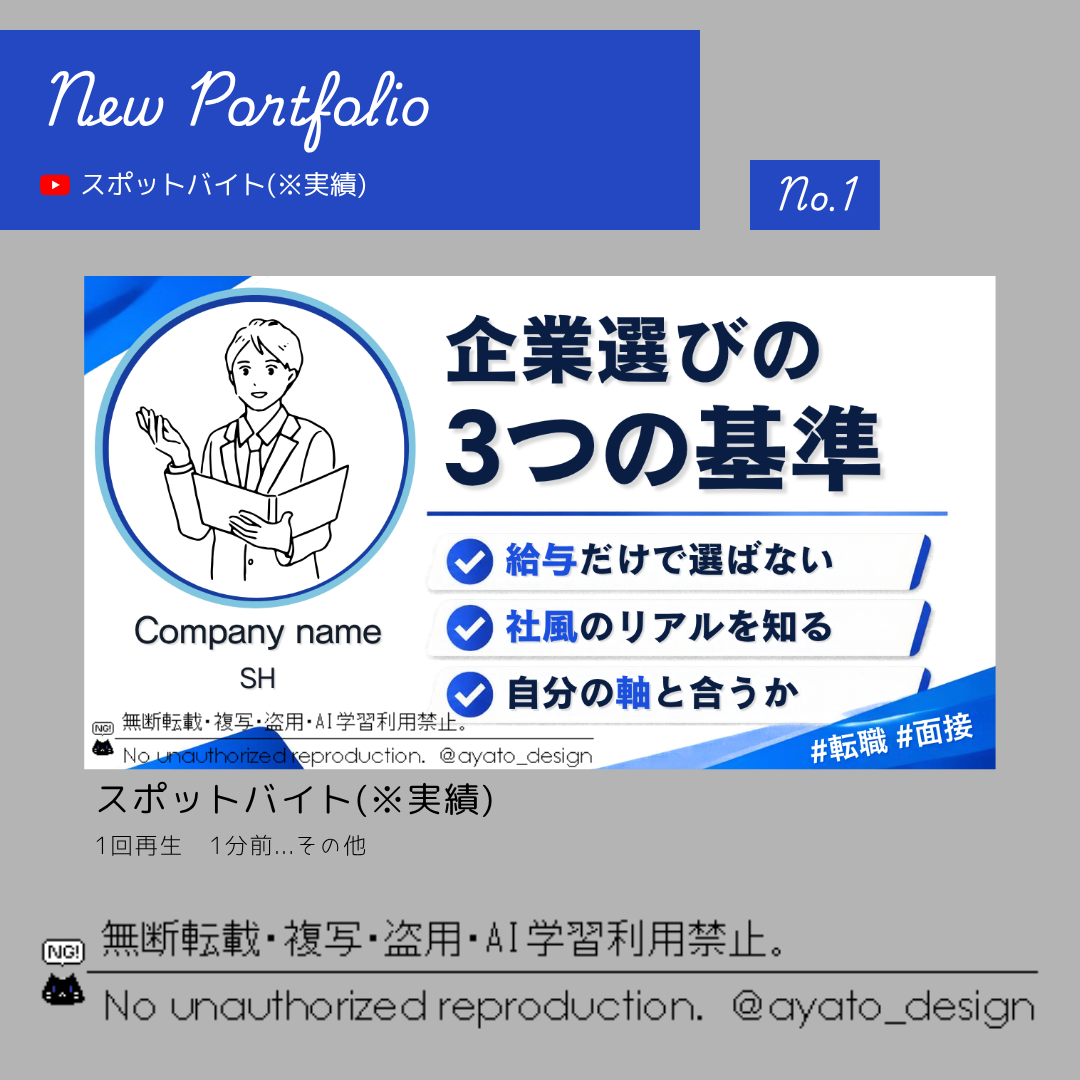
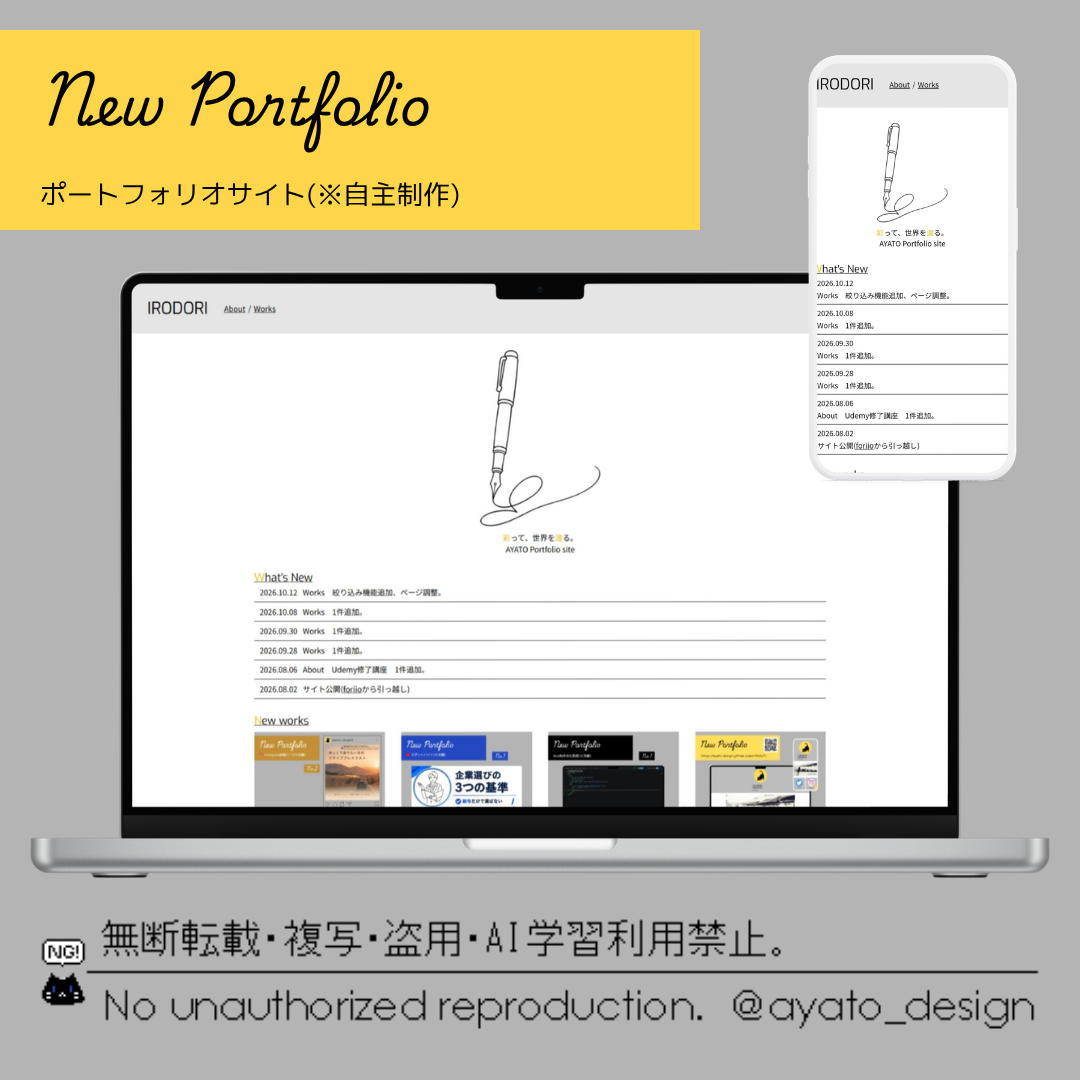
Add files via upload

diff --git a/works/15/15.html b/works/15/15.html
@@ -3,7 +3,7 @@
  <head>
       <link rel="stylesheet" href="../../material/style.css">
       <link rel="icon" href="../../material/favicon.ico">
-   <title>IRODORI:Works:YouTubeサムネイル画像</title>
+   <title>IRODORI:Works:ポートフォリオサイト</title>
    <meta charset="UTF-8">
    <meta name="viewport" content="width=device-width,initial-scale=1">
    <meta name="robots" content="noindex,nofollow,noarchive">
@@ -32,33 +32,70 @@
                 <ul>
                     <li><a href="../../index.html">Top</a></li>
                     <li><a href="../works.html">Works</a></li>
-                    <li>YouTubeサムネイル画像</li>
+                    <li>ポートフォリオサイト</li>
                 </ul>
             </div>
             <div class="works">
                 <div class="works_image2">
                     <img src="top.png">
-                    <img src="image.png">
+                    <img src="screenshot-1.jpeg">
+                    <img src="screenshot-2.jpeg">
+                    <img src="screenshot-3.jpeg">
+                    <img src="screenshot-4.jpeg">
+                    <img src="logo.png">
+                    <img src="ogp.png">
                 </div>
                 <div class="main_text">
-                    <h3>YouTubeサムネイル画像</h3>
+                    <h3>ポートフォリオサイト</h3>
                     <div class="tag_group">
                         <p><i class="fa-solid fa-tag"></i> Tag</p>
-                        <div class="tag">Clientwork</div> <div class="tag">Design</div>
+                        <ul class="normal_list2">
+                            <li><div class="tag">Selfwork</div></li>
+                            <li><div class="tag">Website</div></li>
+                        </ul>
                     </div>
-                    <p>スポットバイトにてYouTubeサムネイル画像を作成しました。</p>
-                    <p>※個人情報の為一部加工済。</p>
-                    <p>※男性のイラストはCanva素材より。</p>
-                    <p>※現物はクォーターマーク、ご依頼通りのものをお渡し済。</p>
+                    <h4>URL</h4>
+                    <p><a href="https://ayato-design.github.io/irodori/" target="_blank">https://ayato-design.github.io/irodori/</a></p>
                     <br>
-                    <p>・20代～30代の若手向けの動画。</p>
-                    <p>・シンプルで誠実、落ち着いたトーン。</p>
+                    <p>当ポートフォリオサイトです。</p>
+                    <p>既存サービスのforiioが時折接続不安定になるので、改めてポートフォリオサイトを作成しました。</p>
+                    <p>これまでの作品と同様に、HTML/CSS/JavaScriptを用いて作成しています。</p>
+                    <p>レスポンシブ対応を行い、スマホでも閲覧し易いよう調整を行いました。</p>
                     <br>
-                    <p>を意識して作成しました。</p>
+                    <p>シンプルデザインで、いち早く目的のページに行けるように意識して作成しました。</p>
+                    <p>なのでアニメーションなどは殆ど付けていません。</p>
                     <br>
-                    <p>制作時間：約1時間半</p>
-                    <p>制作ツール：Canva</p>
-                    <p>完成日：2026.09.30</p>
+                    <p>スクリーンショット後の画像は自分で準備作成/加工したものになります。</p>
+                    <br>
+                    <p>一部レイアウトは参考デザインを元にデザイン作成、コーディングしています。</p>
+                    <br>
+                    <h4>使用技術</h4>
+                    <ul class="normal_list3">
+                        <li>HTML</li>
+                        <li>CSS</li>
+                        <li>JavaScript(basic)</li>
+                        <li>jQuery</li>
+                        <li>Figma</li>
+                        <li>Canva</li>
+                    </ul>
+                    <h4>素材提供</h4>
+                    <ul class="normal_list3">
+                        <li>Google Fonts</li>
+                        <li>HTML5 Dotcor</li>
+                        <li>Fonto Awesome</li>
+                        <li>WEBデザインMATOME</li>
+                        <li>SACOCHAN-DESIGN.COM</li>
+                    </ul>
+                    <h4>参考デザイン</h4>
+                    <p><a href="https://code-jump.com/store2-menu/" target="_blank">Codejump</a></p>
+                    <br>
+                    <p>制作時間：約1日</p>
+                    <p>制作ツール：Visual Studio Code/Figma/Canva</p>
+                    <p>完成日：2026.08.02</p>
+                    <br>
+                    <h4>更新履歴</h4>
+                    <p>2026.10.02　絞り込み機能　追加</p>
+                    <p>2026.08.02　ポートフォリオ公開</p>
                 </div>
             </div>
             <div class="back_works">

diff --git a/works/17/17.html b/works/17/17.html
@@ -1,0 +1,79 @@
+<!DOCTYPE html>
+<html>
+ <head>
+      <link rel="stylesheet" href="../../material/style.css">
+      <link rel="icon" href="../../material/favicon.ico">
+   <title>IRODORI:Works:Instagram投稿画像</title>
+   <meta charset="UTF-8">
+   <meta name="viewport" content="width=device-width,initial-scale=1">
+   <meta name="robots" content="noindex,nofollow,noarchive">
+ </head>
+ <body onselectstart="event.returnValue=false" oncontextmenu="return false">
+    <script src="https://code.jquery.com/jquery-4.0.0.js"></script>
+    <script src="../../material/java.js"></script>
+    <header id="top">
+        <div class="nav_menu">
+            <div class="site_name">
+                <h1><a href="../../index.html">IRODORI</a></h1>
+            </div>
+            <div class="menu">
+                <nav>
+                    <ul>
+                        <li><a href="../../about.html">About</a></li>
+                        <li><a href="../works.html">Works</a></li>
+                    </ul>
+                </nav>
+            </div>
+        </div>
+    </header>
+    <main>
+        <div class="top_content">
+            <div class="pankuzu">
+                <ul>
+                    <li><a href="../../index.html">Top</a></li>
+                    <li><a href="../works.html">Works</a></li>
+                    <li>Instagram投稿画像</li>
+                </ul>
+            </div>
+            <div class="works">
+                <div class="works_image2">
+                    <img src="top.png">
+                    <img src="image-1.png">
+                </div>
+                <div class="main_text">
+                    <h3>Instagram投稿画像</h3>
+                    <div class="tag_group">
+                        <p><i class="fa-solid fa-tag"></i> Tag</p>
+                        <ul class="normal_list2">
+                            <li><div class="tag">Clientwork</div></li>
+                            <li><div class="tag">Design</div></li>
+                        </ul>
+                    </div>
+                    <p>クラウドワークスにてInstagram投稿画像(1：1)を作成しました。</p>
+                    <p>※現物はクォーターマーク、ご依頼通りのものをお渡し済。</p>
+                    <p>※写真はCanvaの素材をお借りしました。</p>
+                    <br>
+                    <p>・トーン：エモーショナル</p>
+                    <p>・配色：オレンジ</p>
+                    <p>・フォント：視認性し易い日本語フォント</p>
+                    <p>・構成：タイトル(上部)/写真/サブコピー(下部)</p>
+                    <br>
+                    <p>のご依頼で、レイアウトを考慮して作成。</p>
+                    <p>細かい指定があったので、指定を再現出来るように意識しました。</p>
+                    <br>
+                    <p>制作時間：約60分</p>
+                    <p>制作ツール：Canva</p>
+                    <p>完成日：2026.10.07</p>
+                </div>
+            </div>
+            <div class="back_works">
+                <div class="back_link"><a href="../works.html">Back</a></div>
+            </div>
+        </div>
+    </main>
+    <div class="back_button"><a href="#top">↑<br>Top</a></div>
+    <footer>
+        <p>© 2026 AYATO All Rights Reserved.</p>
+    </footer>
+ </body>
+</html>

diff --git a/works/16/16.html b/works/16/16.html
@@ -3,7 +3,7 @@
  <head>
       <link rel="stylesheet" href="../../material/style.css">
       <link rel="icon" href="../../material/favicon.ico">
-   <title>IRODORI:Works:Instagram投稿画像</title>
+   <title>IRODORI:Works:YouTubeサムネイル画像</title>
    <meta charset="UTF-8">
    <meta name="viewport" content="width=device-width,initial-scale=1">
    <meta name="robots" content="noindex,nofollow,noarchive">
@@ -32,35 +32,36 @@
                 <ul>
                     <li><a href="../../index.html">Top</a></li>
                     <li><a href="../works.html">Works</a></li>
-                    <li>Instagram投稿画像</li>
+                    <li>YouTubeサムネイル画像</li>
                 </ul>
             </div>
             <div class="works">
                 <div class="works_image2">
                     <img src="top.png">
-                    <img src="image-1.png">
+                    <img src="image.png">
                 </div>
                 <div class="main_text">
-                    <h3>Instagram投稿画像</h3>
+                    <h3>YouTubeサムネイル画像</h3>
                     <div class="tag_group">
                         <p><i class="fa-solid fa-tag"></i> Tag</p>
-                        <div class="tag">Clientwork</div> <div class="tag">Design</div>
+                        <ul class="normal_list2">
+                            <li><div class="tag">Clientwork</div></li>
+                            <li><div class="tag">Design</div></li>
+                        </ul>
                     </div>
-                    <p>クラウドワークスにてInstagram投稿画像(1：1)を作成しました。</p>
+                    <p>スポットバイトにてYouTubeサムネイル画像を作成しました。</p>
+                    <p>※個人情報の為一部加工済。</p>
+                    <p>※男性のイラストはCanva素材より。</p>
                     <p>※現物はクォーターマーク、ご依頼通りのものをお渡し済。</p>
-                    <p>※写真はCanvaの素材をお借りしました。</p>
                     <br>
-                    <p>・トーン：エモーショナル</p>
-                    <p>・配色：オレンジ</p>
-                    <p>・フォント：視認性し易い日本語フォント</p>
-                    <p>・構成：タイトル(上部)/写真/サブコピー(下部)</p>
+                    <p>・20代～30代の若手向けの動画。</p>
+                    <p>・シンプルで誠実、落ち着いたトーン。</p>
                     <br>
-                    <p>のご依頼で、レイアウトを考慮して作成。</p>
-                    <p>細かい指定があったので、指定を再現出来るように意識しました。</p>
+                    <p>を意識して作成しました。</p>
                     <br>
-                    <p>制作時間：約60分</p>
+                    <p>制作時間：約1時間半</p>
                     <p>制作ツール：Canva</p>
-                    <p>完成日：2026.10.07</p>
+                    <p>完成日：2026.09.30</p>
                 </div>
             </div>
             <div class="back_works">

diff --git a/works/13/13.html b/works/13/13.html
@@ -47,7 +47,10 @@
                     <h3>SNSリンク集2</h3>
                     <div class="tag_group">
                         <p><i class="fa-solid fa-tag"></i> Tag</p>
-                        <div class="tag">Selfwork</div> <div class="tag">Website</div>
+                        <ul class="normal_list2">
+                            <li><div class="tag">Selfwork</div></li>
+                            <li><div class="tag">Website</div></li>
+                        </ul>
                     </div>
                     <h4>URL</h4>
                     <p><a href="https://ayato-design.github.io/portfolio7/" target="_blank">https://ayato-design.github.io/portfolio7/</a></p>
@@ -58,7 +61,7 @@
                     <p>スクリーンショット後の画像は自分で準備作成/加工したものになります。</p>
                     <br>
                     <h4>使用技術</h4>
-                    <ul class="normal_list2">
+                    <ul class="normal_list3">
                         <li>HTML</li>
                         <li>CSS</li>
                         <li>JavaScript(basic)</li>
@@ -68,7 +71,7 @@
                     </ul>
                     <br>
                     <h4>素材提供</h4>
-                    <ul class="normal_list2">
+                    <ul class="normal_list3">
                         <li>Google Fonts</li>
                         <li>HTML5 Dotcor</li>
                         <li>Fonto Awesome</li>

diff --git a/works/12/12.html b/works/12/12.html
@@ -46,7 +46,10 @@
                     <h3>SNSリンク集</h3>
                     <div class="tag_group">
                         <p><i class="fa-solid fa-tag"></i> Tag</p>
-                        <div class="tag">Selfwork</div> <div class="tag">website</div>
+                        <ul class="normal_list2">
+                            <li><div class="tag">Selfwork</div></li>
+                            <li><div class="tag">Website</div></li>
+                        </ul>
                     </div>
                     <h4>URL</h4>
                     <p><a href="https://ayato-design.github.io/portfolio6/" target="_blank">https://ayato-design.github.io/portfolio6/</a></p>
@@ -57,7 +60,7 @@
                     <p>スクリーンショット後の画像は自分で準備作成/加工したものになります。</p>
                     <br>
                     <h4>使用技術</h4>
-                    <ul class="normal_list2">
+                    <ul class="normal_list3">
                         <li>HTML</li>
                         <li>CSS</li>
                         <li>JavaScript(basic)</li>
@@ -67,7 +70,7 @@
                     </ul>
                     <br>
                     <h4>素材提供</h4>
-                    <ul class="normal_list2">
+                    <ul class="normal_list3">
                         <li>Google Fonts</li>
                         <li>HTML5 Dotcor</li>
                         <li>Fonto Awesome</li>

diff --git a/works/11/11.html b/works/11/11.html
@@ -51,7 +51,10 @@
                     <h3>LP型企業サイト模写(WordPressテーマ化)</h3>
                     <div class="tag_group">
                         <p><i class="fa-solid fa-tag"></i> Tag</p>
-                        <div class="tag">Selfwork</div> <div class="tag">Website</div>
+                        <ul class="normal_list2">
+                            <li><div class="tag">Selfwork</div></li>
+                            <li><div class="tag">Website</div></li>
+                        </ul>
                     </div>
                     <p>HTMLで制作した企業サイトを元に、WordPressのオリジナルテーマとして再構築しました。</p>
                     <p>トップページ、ニュース一覧、ニュース詳細ページを投稿機能で管理できるよう実装し、更新性を意識した構成にしています。</p>
@@ -59,7 +62,7 @@
                     <p>テーマ開発では、header.php・footer.phpの分割、single.php・home.phpの作成など、WordPressの基本構造を意識して実装しています。</p>
                     <br>
                     <h4>使用技術</h4>
-                    <ul class="normal_list2">
+                    <ul class="normal_list3">
                         <li>HTML</li>
                         <li>JavaScript(basic)</li>
                         <li>jQuery</li>

diff --git a/works/14/14.html b/works/14/14.html
@@ -43,19 +43,22 @@
                     <h3>Web制作会社勤務</h3>
                     <div class="tag_group">
                         <p><i class="fa-solid fa-tag"></i> Tag</p>
-                        <div class="tag">Clientwork</div> <div class="tag">Website</div>
+                        <ul class="normal_list2">
+                            <li><div class="tag">Clientwork</div></li>
+                            <li><div class="tag">Website</div></li>
+                        </ul>
                     </div>
                     <p>2026年7月〜8月の2ヶ月間、Web制作会社のコーダーとして勤務実績有。</p>
                     <br>
                     <h4>主な業務</h4>
-                    <ul class="normal_list2">
+                    <ul class="normal_list3">
                         <li>WordPressを使ったサイト更新</li>
                         <li>WordPressを使ったLP作成</li>
                         <li>Photoshop、Canvaを使ったバナー加工</li>
                     </ul>
                     <br>
                     <h4>使用技術</h4>
-                    <ul class="normal_list2">
+                    <ul class="normal_list3">
                         <li>HTML</li>
                         <li>CSS</li>
                         <li>PHP(basic)</li>
